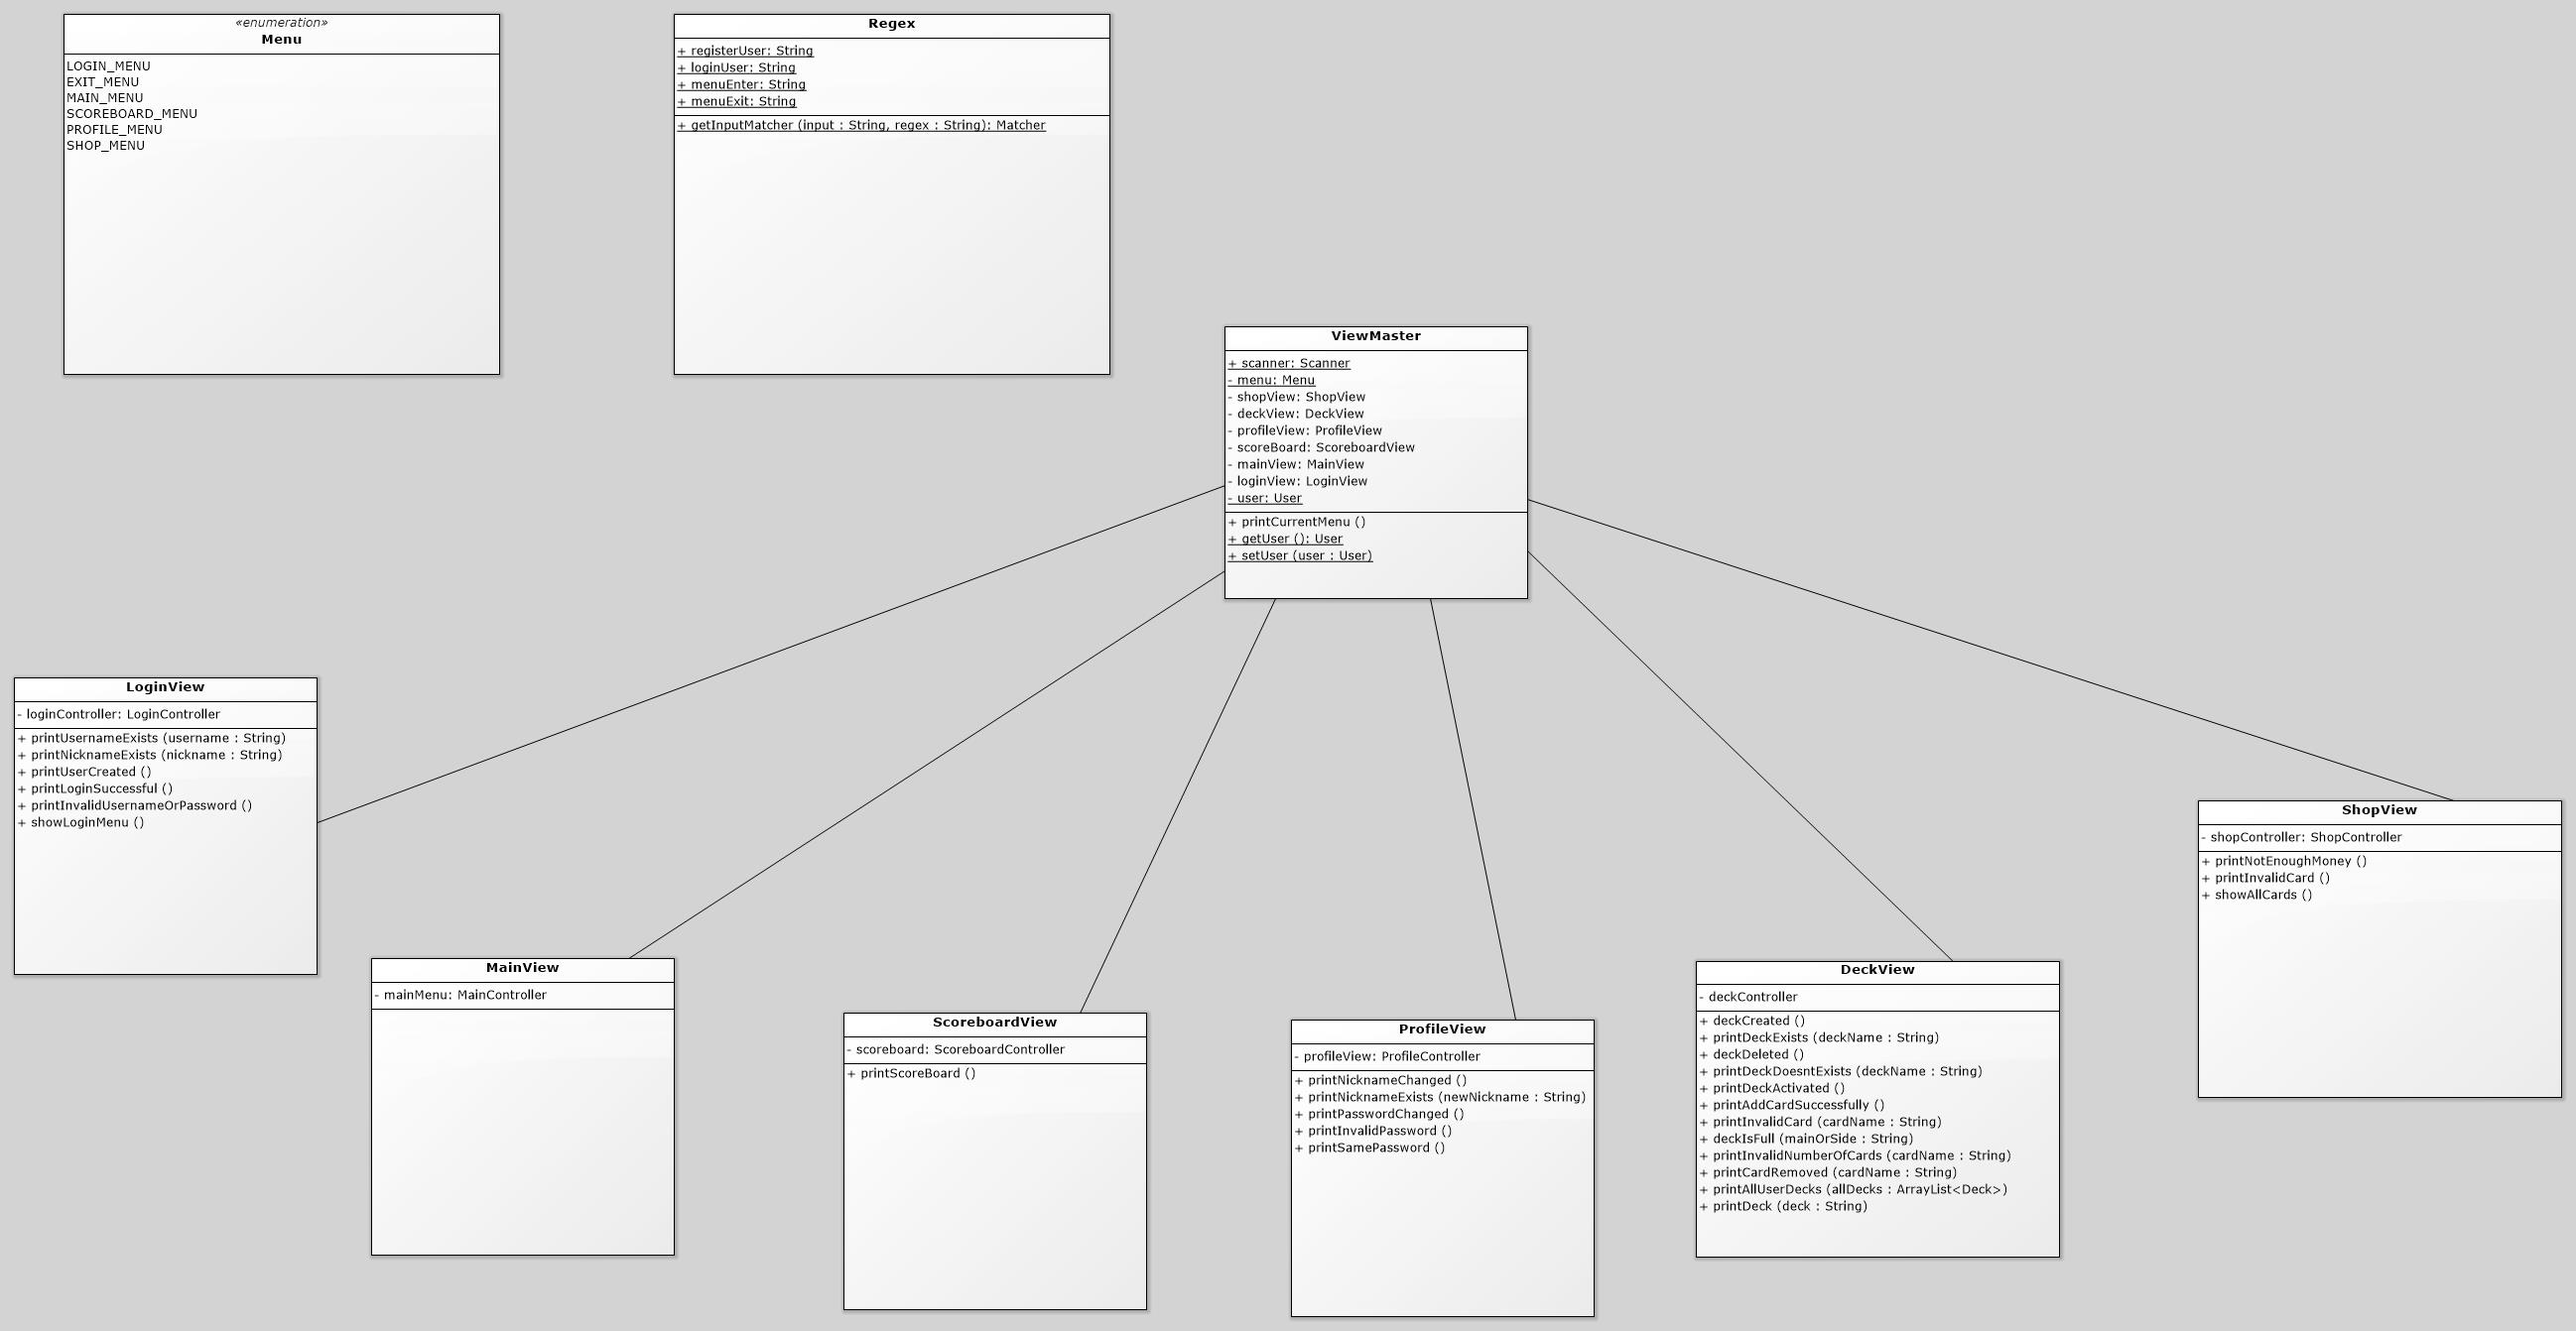
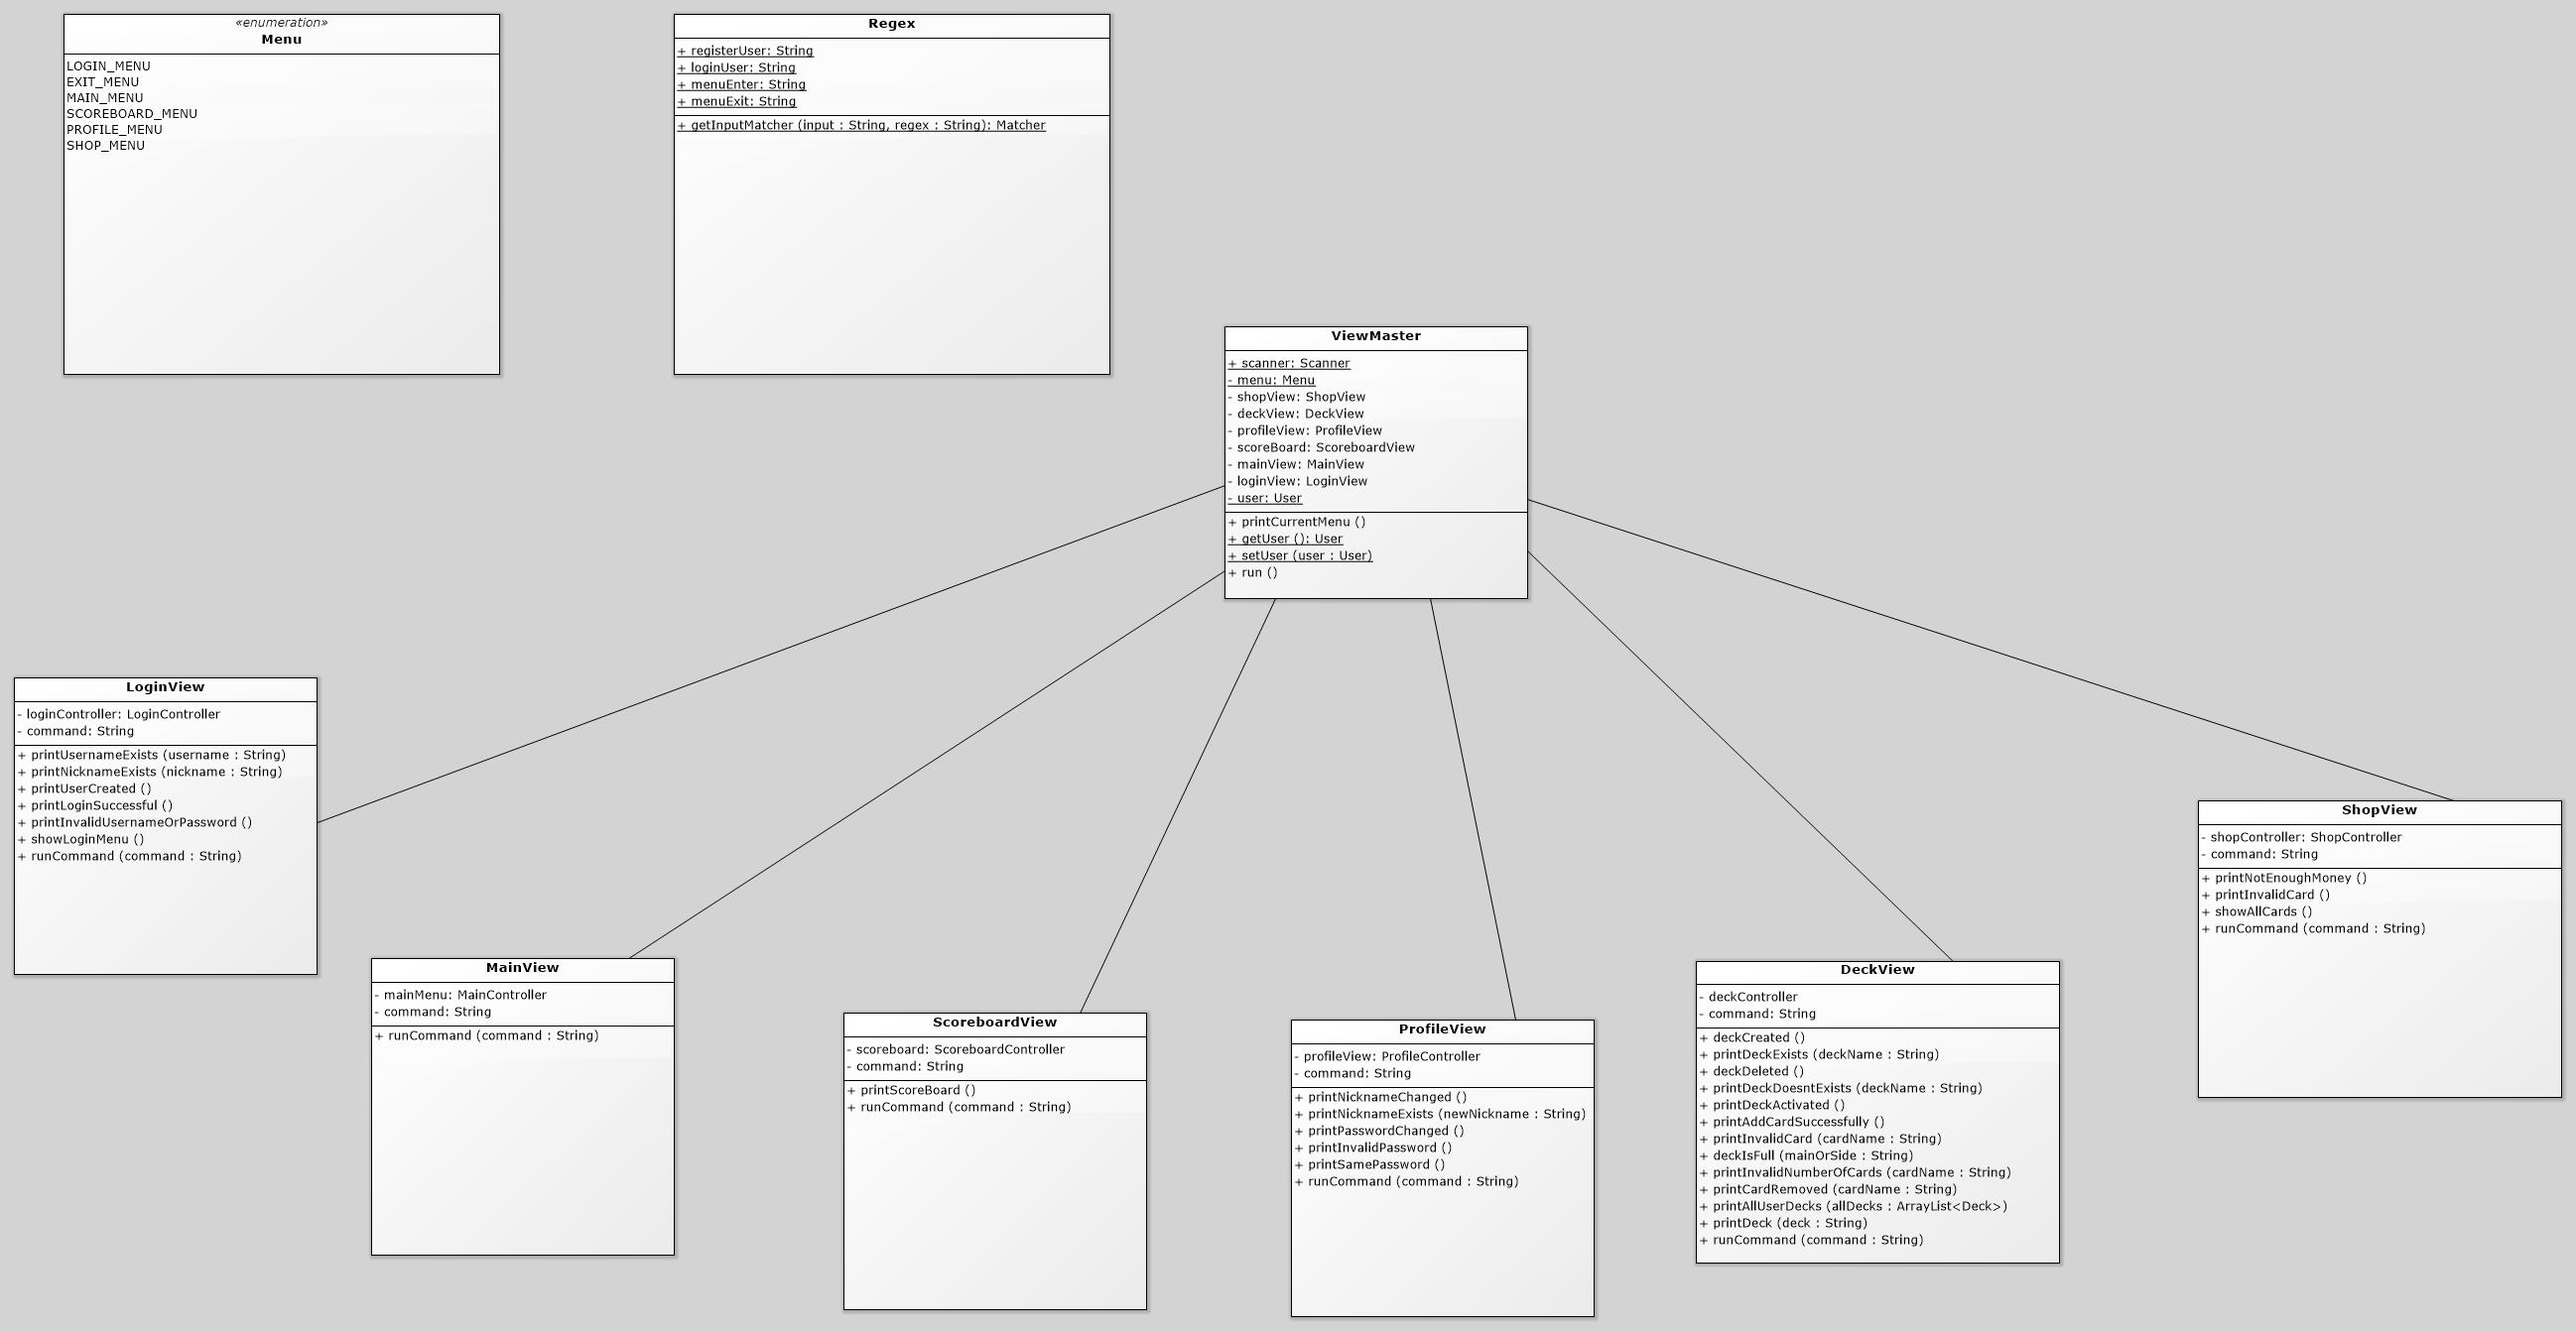
changing some classes three

diff --git a/project/src/view/ScoreboardView.java b/project/src/view/ScoreboardView.java
@@ -3,6 +3,7 @@
 import controll.ScoreboardController;
 public class ScoreboardView {
     private ScoreboardController scoreboardController;
+    private String command;
 
     ScoreboardView(){
         scoreboardController = new ScoreboardController();

diff --git a/project/src/view/ProfileView.java b/project/src/view/ProfileView.java
@@ -3,6 +3,7 @@ import controll.ProfileController;
 
 public class ProfileView {
     private ProfileController profileController;
+    private String command;
 
     ProfileView(){
         profileController = new ProfileController();

diff --git a/project/src/view/LoginView.java b/project/src/view/LoginView.java
@@ -2,6 +2,8 @@
 import controll.LoginController;
 public class LoginView {
     private LoginController loginController;
+    private String command;
+
     LoginView(){
         loginController = new LoginController();
     }

diff --git a/project/src/view/MainView.java b/project/src/view/MainView.java
@@ -3,6 +3,8 @@ import controll.MainController;
 
 public class MainView {
     private MainController mainController;
+    private String command;
+
     MainView(){
         mainController = new MainController();
     }

diff --git a/project/src/view/DeckView.java b/project/src/view/DeckView.java
@@ -7,6 +7,8 @@ import java.util.ArrayList;
 
 public class DeckView {
     private DeckController deckController;
+    private String command;
+
     DeckView(){
         deckController = new DeckController();
     }

diff --git a/project/src/view/ShopView.java b/project/src/view/ShopView.java
@@ -4,6 +4,7 @@ import controll.ShopController;
 
 public class ShopView {
     private ShopController shopController;
+    private String command;
 
     ShopView() {
         shopController = new ShopController();

diff --git a/project/src/view/ViewMaster.java b/project/src/view/ViewMaster.java
@@ -27,4 +27,8 @@ public class ViewMaster {
     public void printCurrentMenu() {
 
     }
+
+    public void run(){
+
+    }
 }
